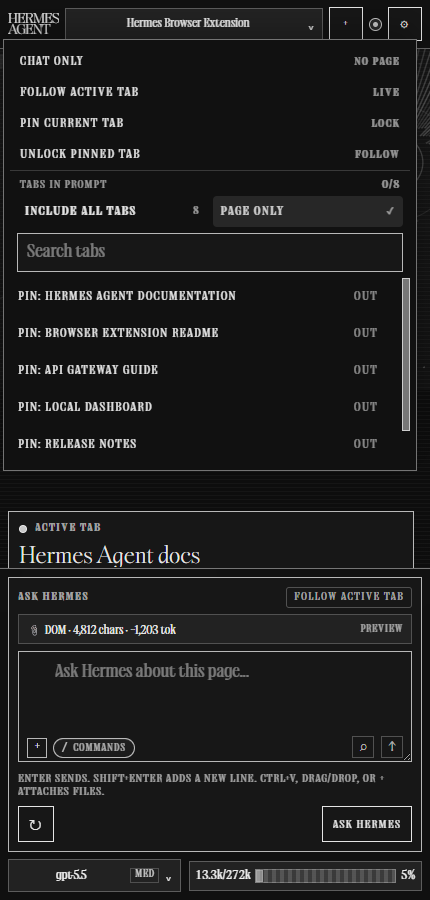
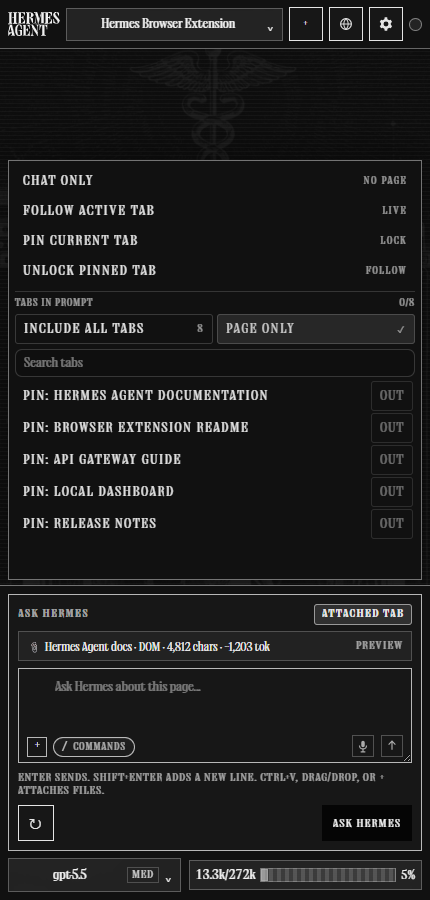
fix: improve Cyberpunk globe and refresh visual tour

Changed region(s): [[0.0, 0.0, 1.0, 0.7778], [0.0302, 0.8089, 0.9674, 0.9956], [0.514, 0.2178, 0.6651, 0.2489]]

diff --git a/extension/fulltab-themes.css b/extension/fulltab-themes.css
@@ -140,6 +140,11 @@ html[data-hermes-theme="midnight"] .rail-brand-video { filter: hue-rotate(28deg)
 html[data-hermes-theme="ember"] .rail-brand-video { filter: grayscale(1) sepia(1) saturate(6) hue-rotate(332deg); }
 html[data-hermes-theme="mono"] .rail-brand-video { filter: grayscale(1) contrast(1.15); }
 html[data-hermes-theme="cyberpunk"] .rail-brand-video { filter: grayscale(1) sepia(1) saturate(8) hue-rotate(78deg); }
+html[data-hermes-theme="cyberpunk"][data-hermes-mode="light"] .rail-globe-viewport { mix-blend-mode: difference; }
+html[data-hermes-theme="cyberpunk"][data-hermes-mode="light"] .rail-brand-video {
+  filter: grayscale(1) sepia(1) saturate(14) hue-rotate(280deg) brightness(0.9);
+  opacity: 0.86;
+}
 html[data-hermes-theme="slate"] .rail-brand-video { filter: grayscale(0.7) sepia(0.24) saturate(1.1) hue-rotate(158deg); }
 html[data-hermes-theme="senter-space"] .rail-brand-video { filter: grayscale(0.25) sepia(0.3) saturate(1.25) hue-rotate(130deg); }
 html[data-hermes-theme="aurora"] .rail-brand-video { filter: grayscale(0.08) sepia(0.28) saturate(2.4) hue-rotate(286deg) brightness(1.08); }
